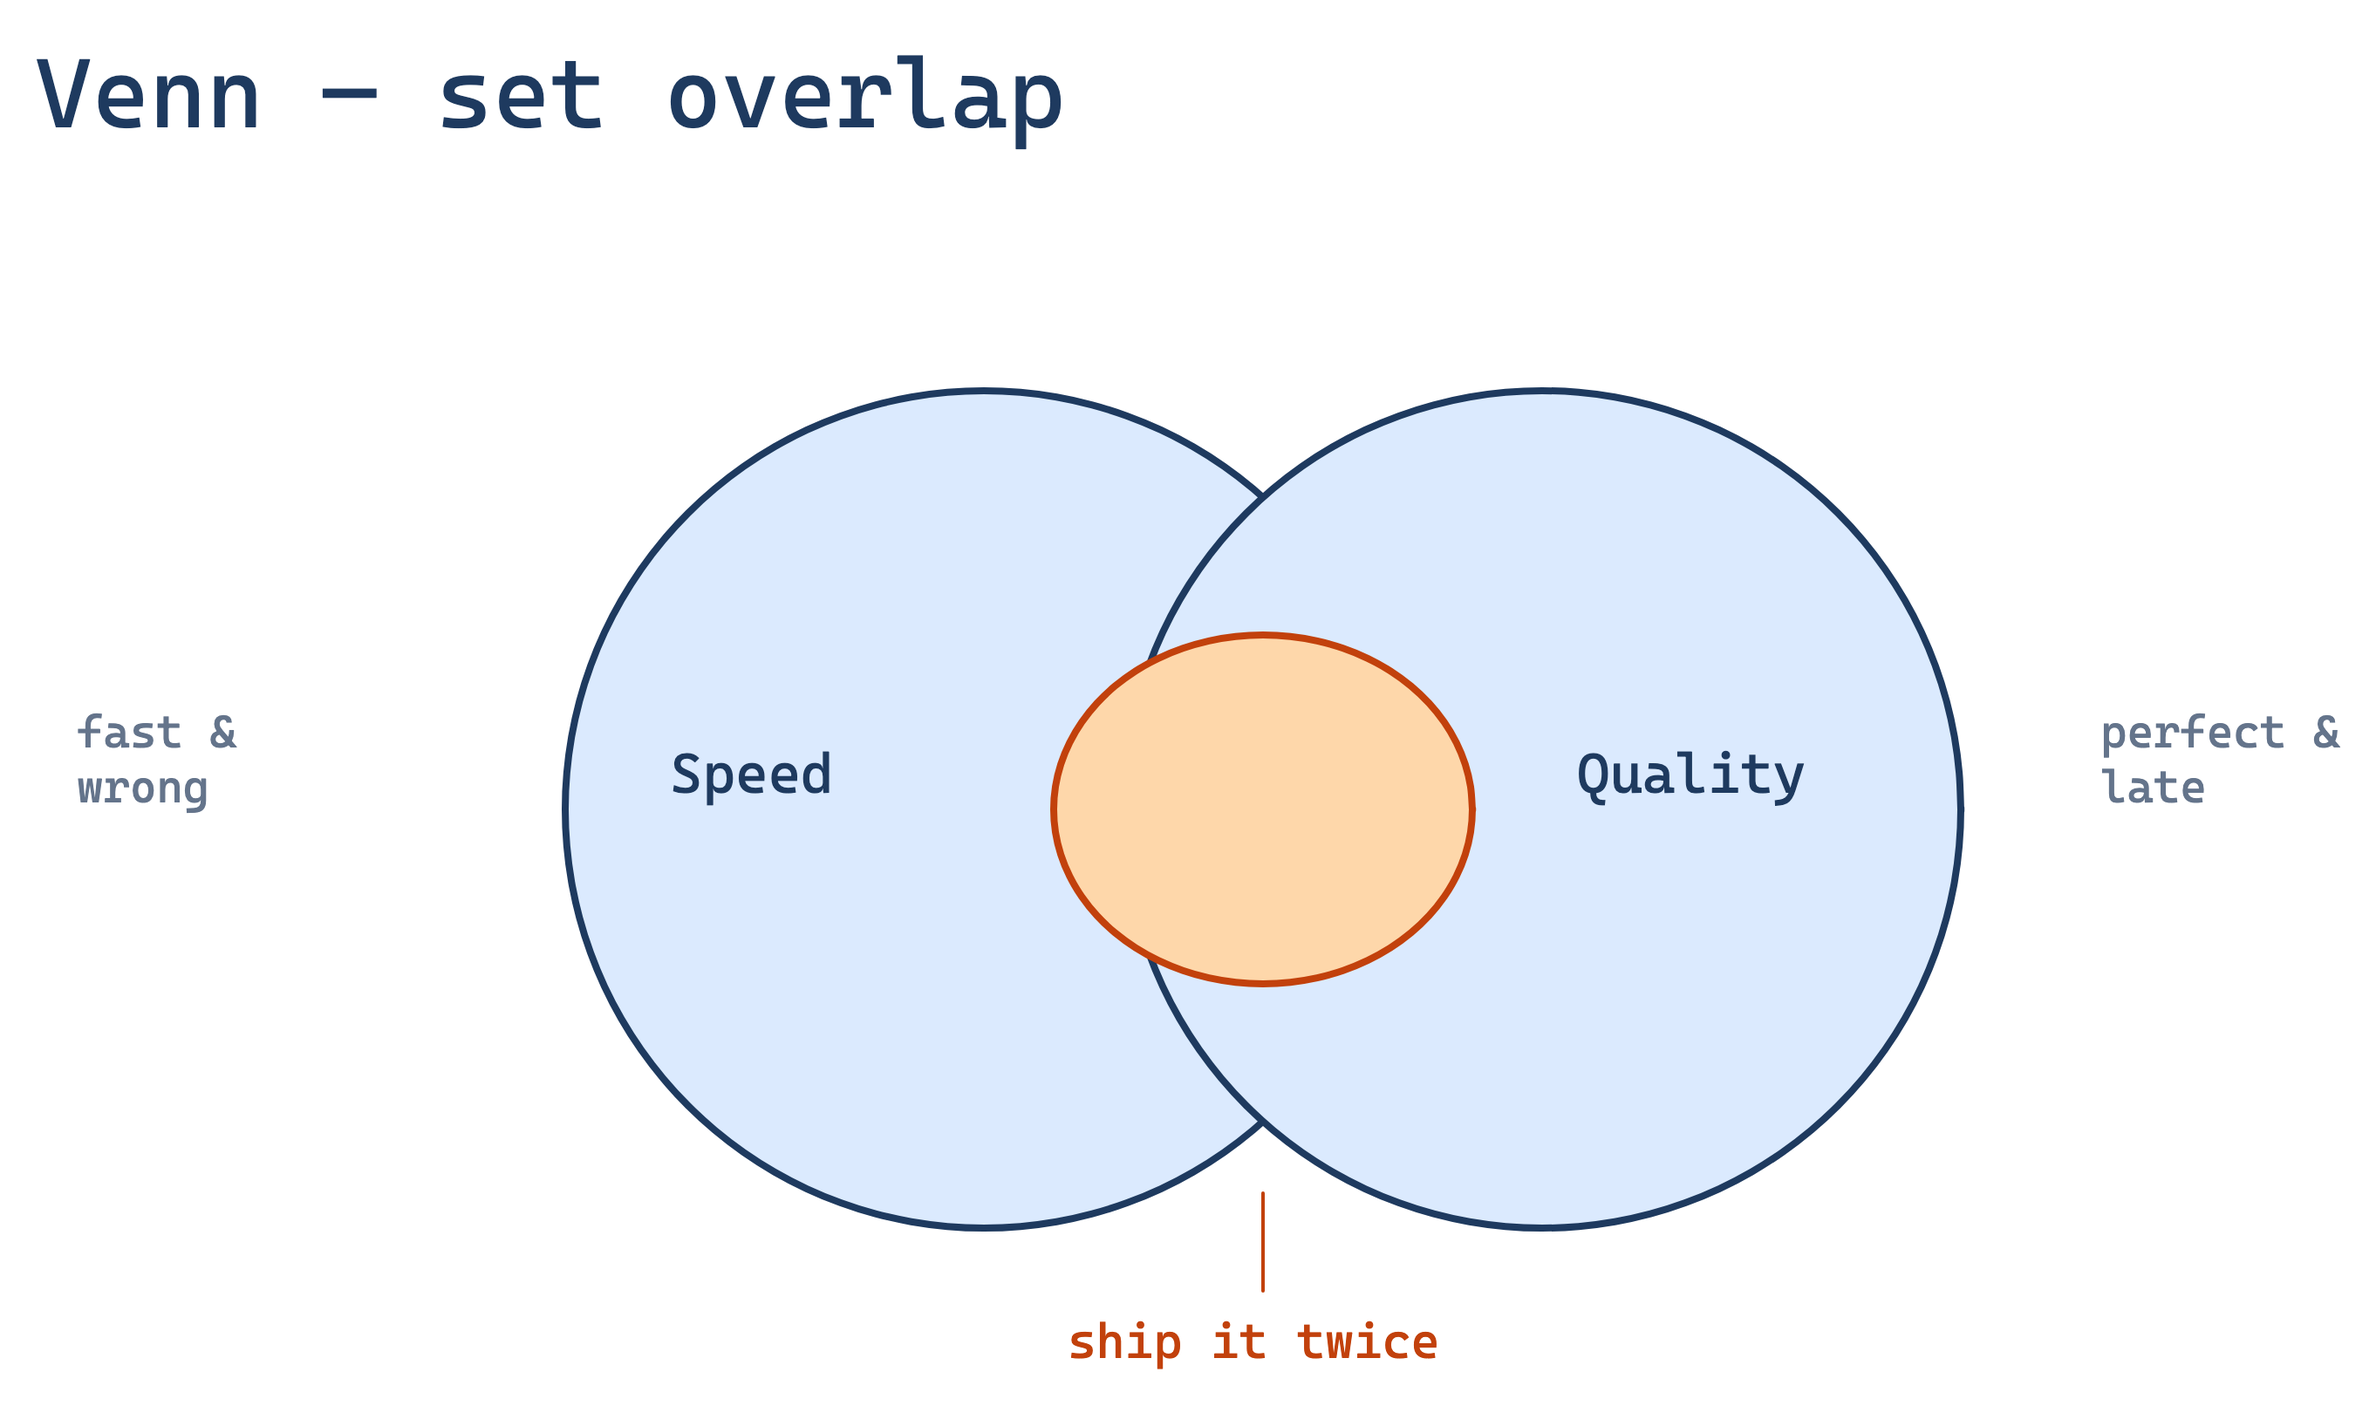
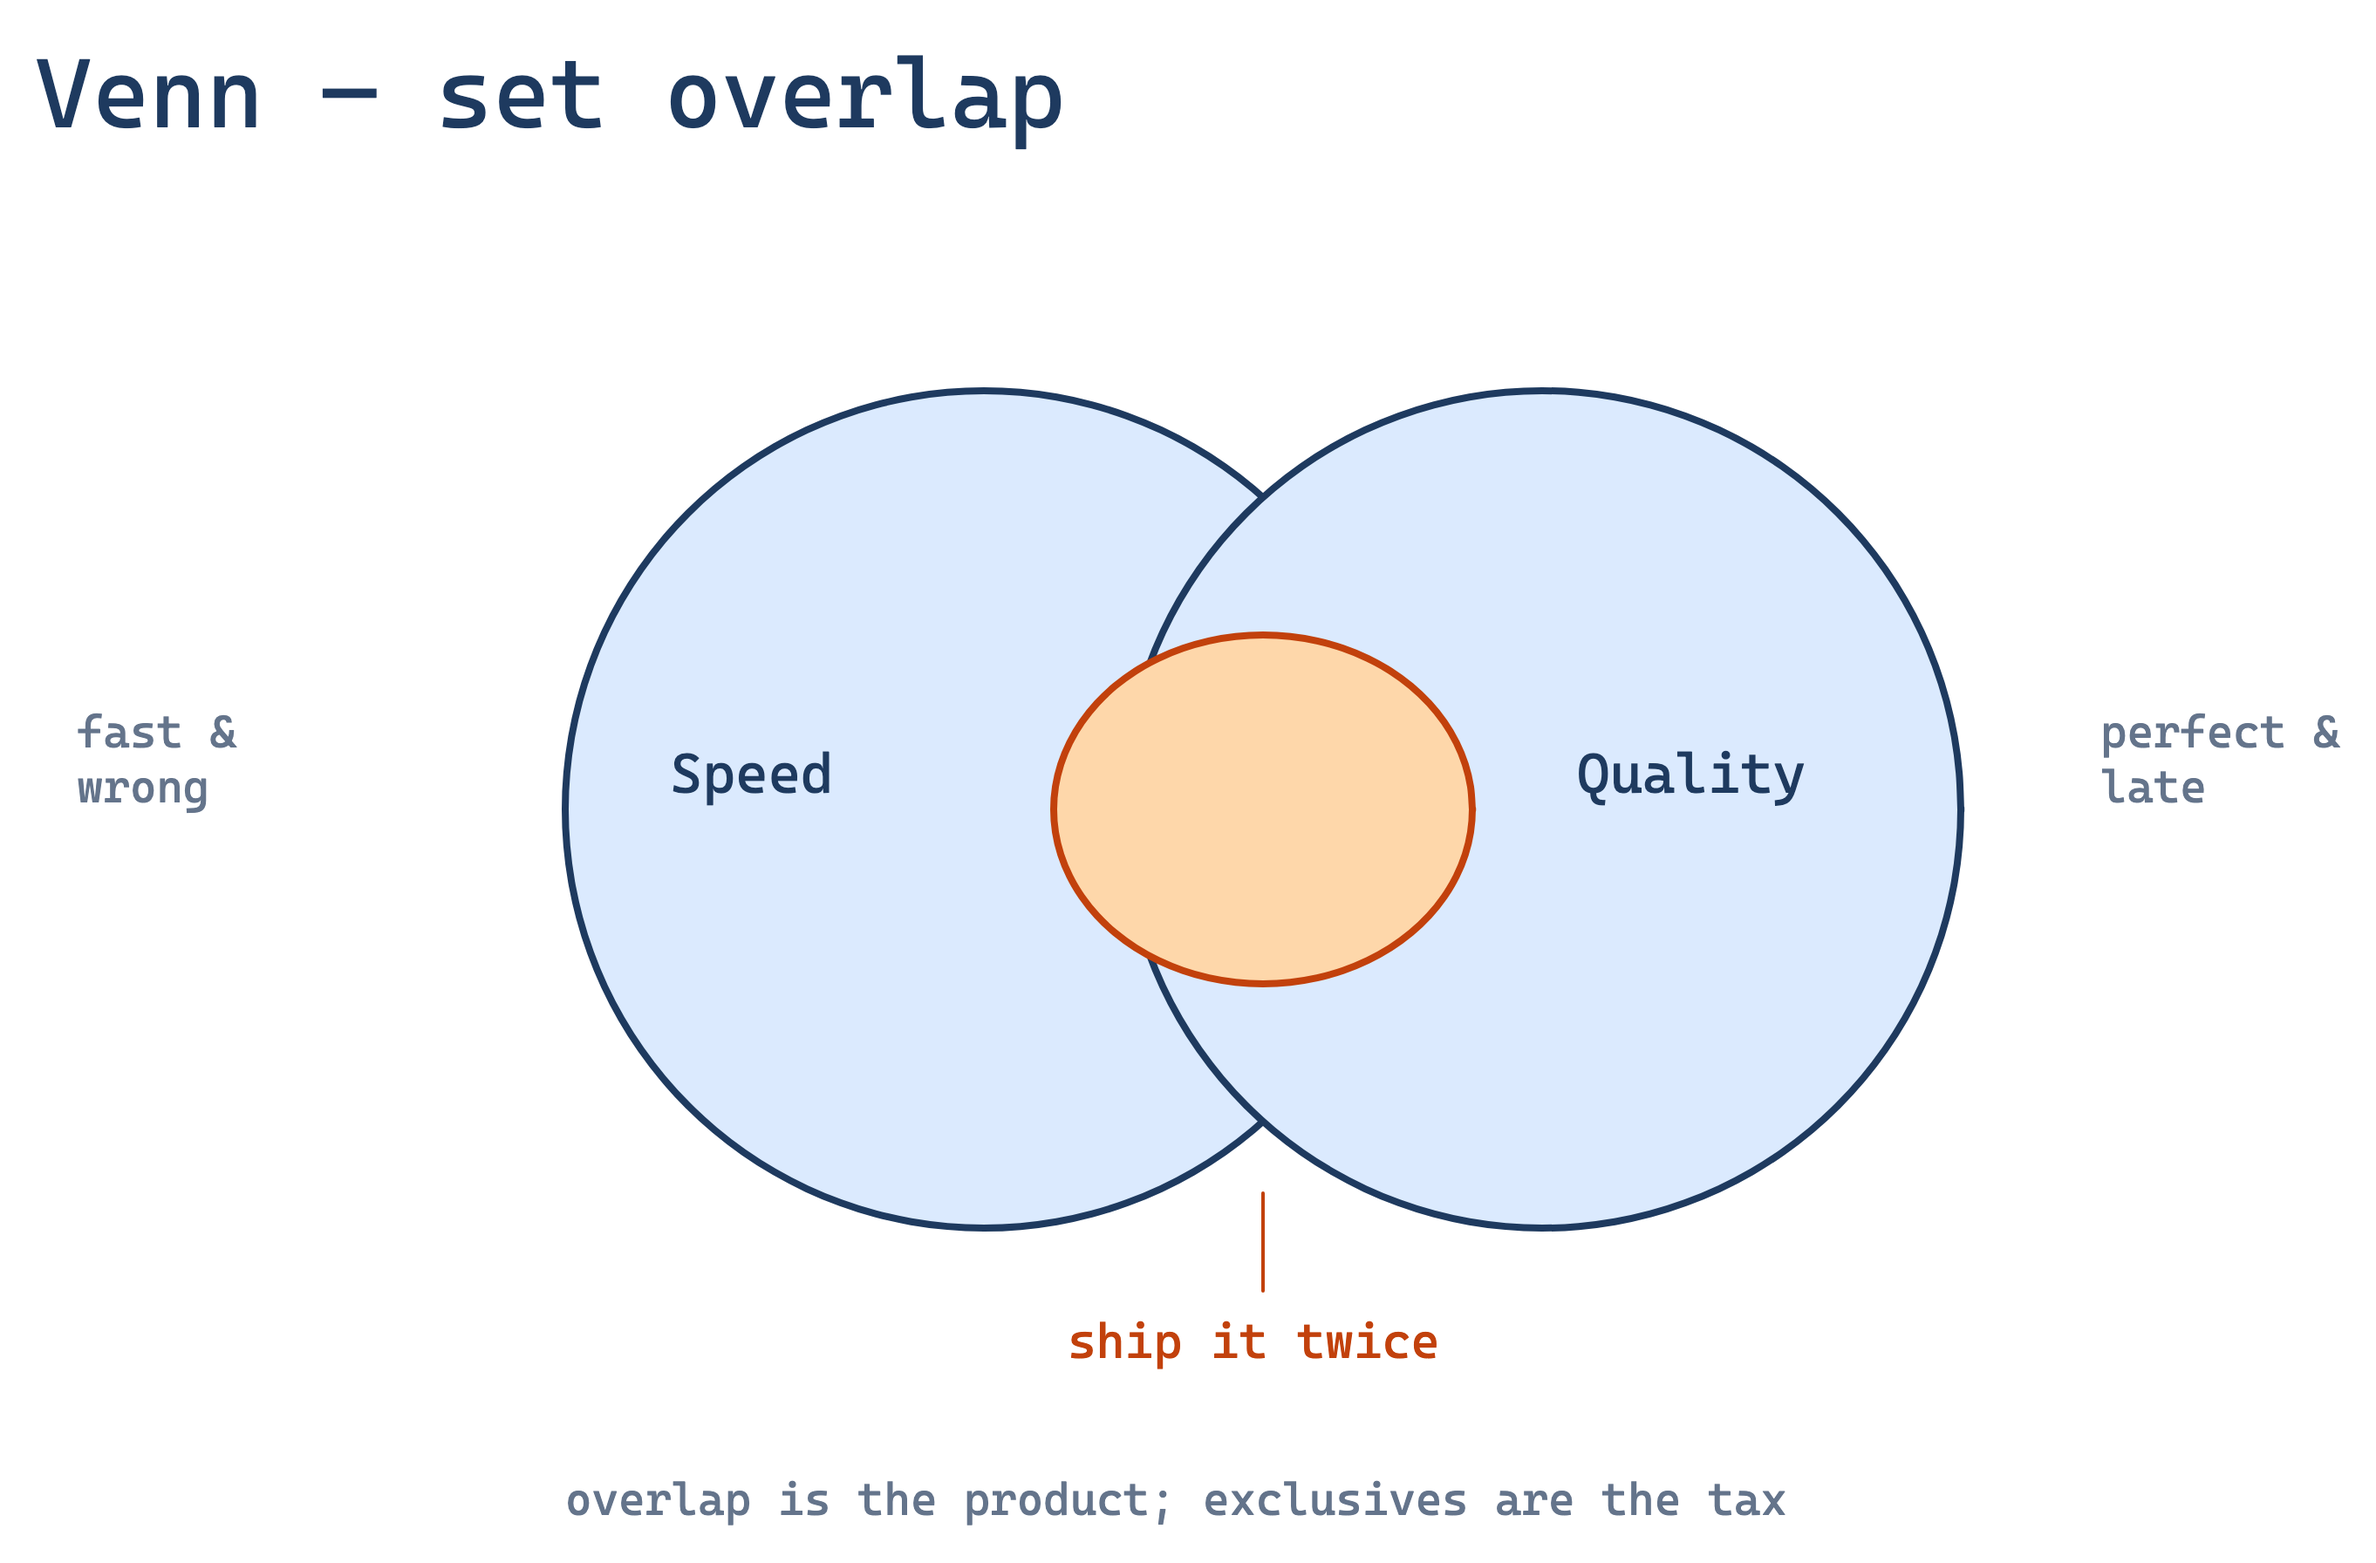
Sync process/IT/HL type refs; pin the Venn product claim.
Quarantine re-entry and ESB fan-out are now grammar, not just fixtures.

diff --git a/packages/core/references/types/type-it-state.md b/packages/core/references/types/type-it-state.md
@@ -3,19 +3,19 @@
 **Best for:** legacy landscape, modernization snapshots.
 
 ## Layout conventions
-Legacy on left, target/SaaS on right; ESB/bridge in the middle as the accent finding.
+Legacy on left, targets on right; ESB/bridge in the middle as the accent finding.
 
 ## Excalidraw pattern
-Fan sources into the bus on an orthogonal rail; name the choke in a caption.
+Fan ≥3 sources into the bus on an orthogonal rail; fan ≥2 targets out; name the choke in a caption.
 
 ## Connectors & routing
-Shared vertical rail into the ESB — no converging diagonals.
+Shared vertical rails into/out of the ESB — no converging diagonals.
 
 ## Anti-patterns
-Wallpaper of apps with no single finding.
+Wallpaper of apps with no single finding; one lonely SaaS that understates the throat.
 
 ## Budget
-≤6 systems.
+≤8 systems.
 
 ## Example
 - Fixture: [`packages/shared/fixtures/types/it-state/example.excalidraw`](https://github.com/isatimur/excalidraw-skill-pack/blob/main/packages/shared/fixtures/types/it-state/example.excalidraw)

diff --git a/packages/core/references/types/type-high-level.md b/packages/core/references/types/type-high-level.md
@@ -6,13 +6,13 @@
 The full path left→right, with the zone drawn around only what you operate. Leave the upstream hops (browser, CDN) outside it.
 
 ## Excalidraw pattern
-Zone rectangle + 3–7 components; free protocol labels above shafts.
+Zone rectangle + components; free protocol labels; Worker that SETs Redis so cache is not read-only wallpaper.
 
 ## Connectors & routing
-Primary path horizontal; fan to datastores via orthogonal elbows, never diagonal spokes.
+Primary path horizontal/elbowed; fan to datastores via orthogonal elbows, never diagonal spokes.
 
 ## Anti-patterns
-A zone that contains everything; diagonal App→DB/Redis spokes.
+A zone that contains everything; diagonal App→DB/Redis spokes; Redis with GET and no writer.
 
 ## Budget
 ≤7 components inside zone.

diff --git a/packages/core/references/types/type-process.md b/packages/core/references/types/type-process.md
@@ -6,13 +6,13 @@
 Strict left→right transforms with concrete artifacts per stage. Accent the judgment stage.
 
 ## Excalidraw pattern
-Skeleton rectangles chained by arrows; free handoff labels; optional DQ quarantine branch.
+Skeleton rectangles chained by arrows; free handoff labels; DQ quarantine with dashed fix→retry back into the judgment stage.
 
 ## Connectors & routing
-One arrow per handoff; orthogonal drop for failure paths.
+One arrow per handoff; orthogonal drop for failure; dashed re-entry so quarantine is not a dump.
 
 ## Anti-patterns
-Checklist steps redrawn as bare verbs with no artifact.
+Checklist steps redrawn as bare verbs with no artifact; a quarantine that never returns.
 
 ## Budget
 ≤7 stages.
